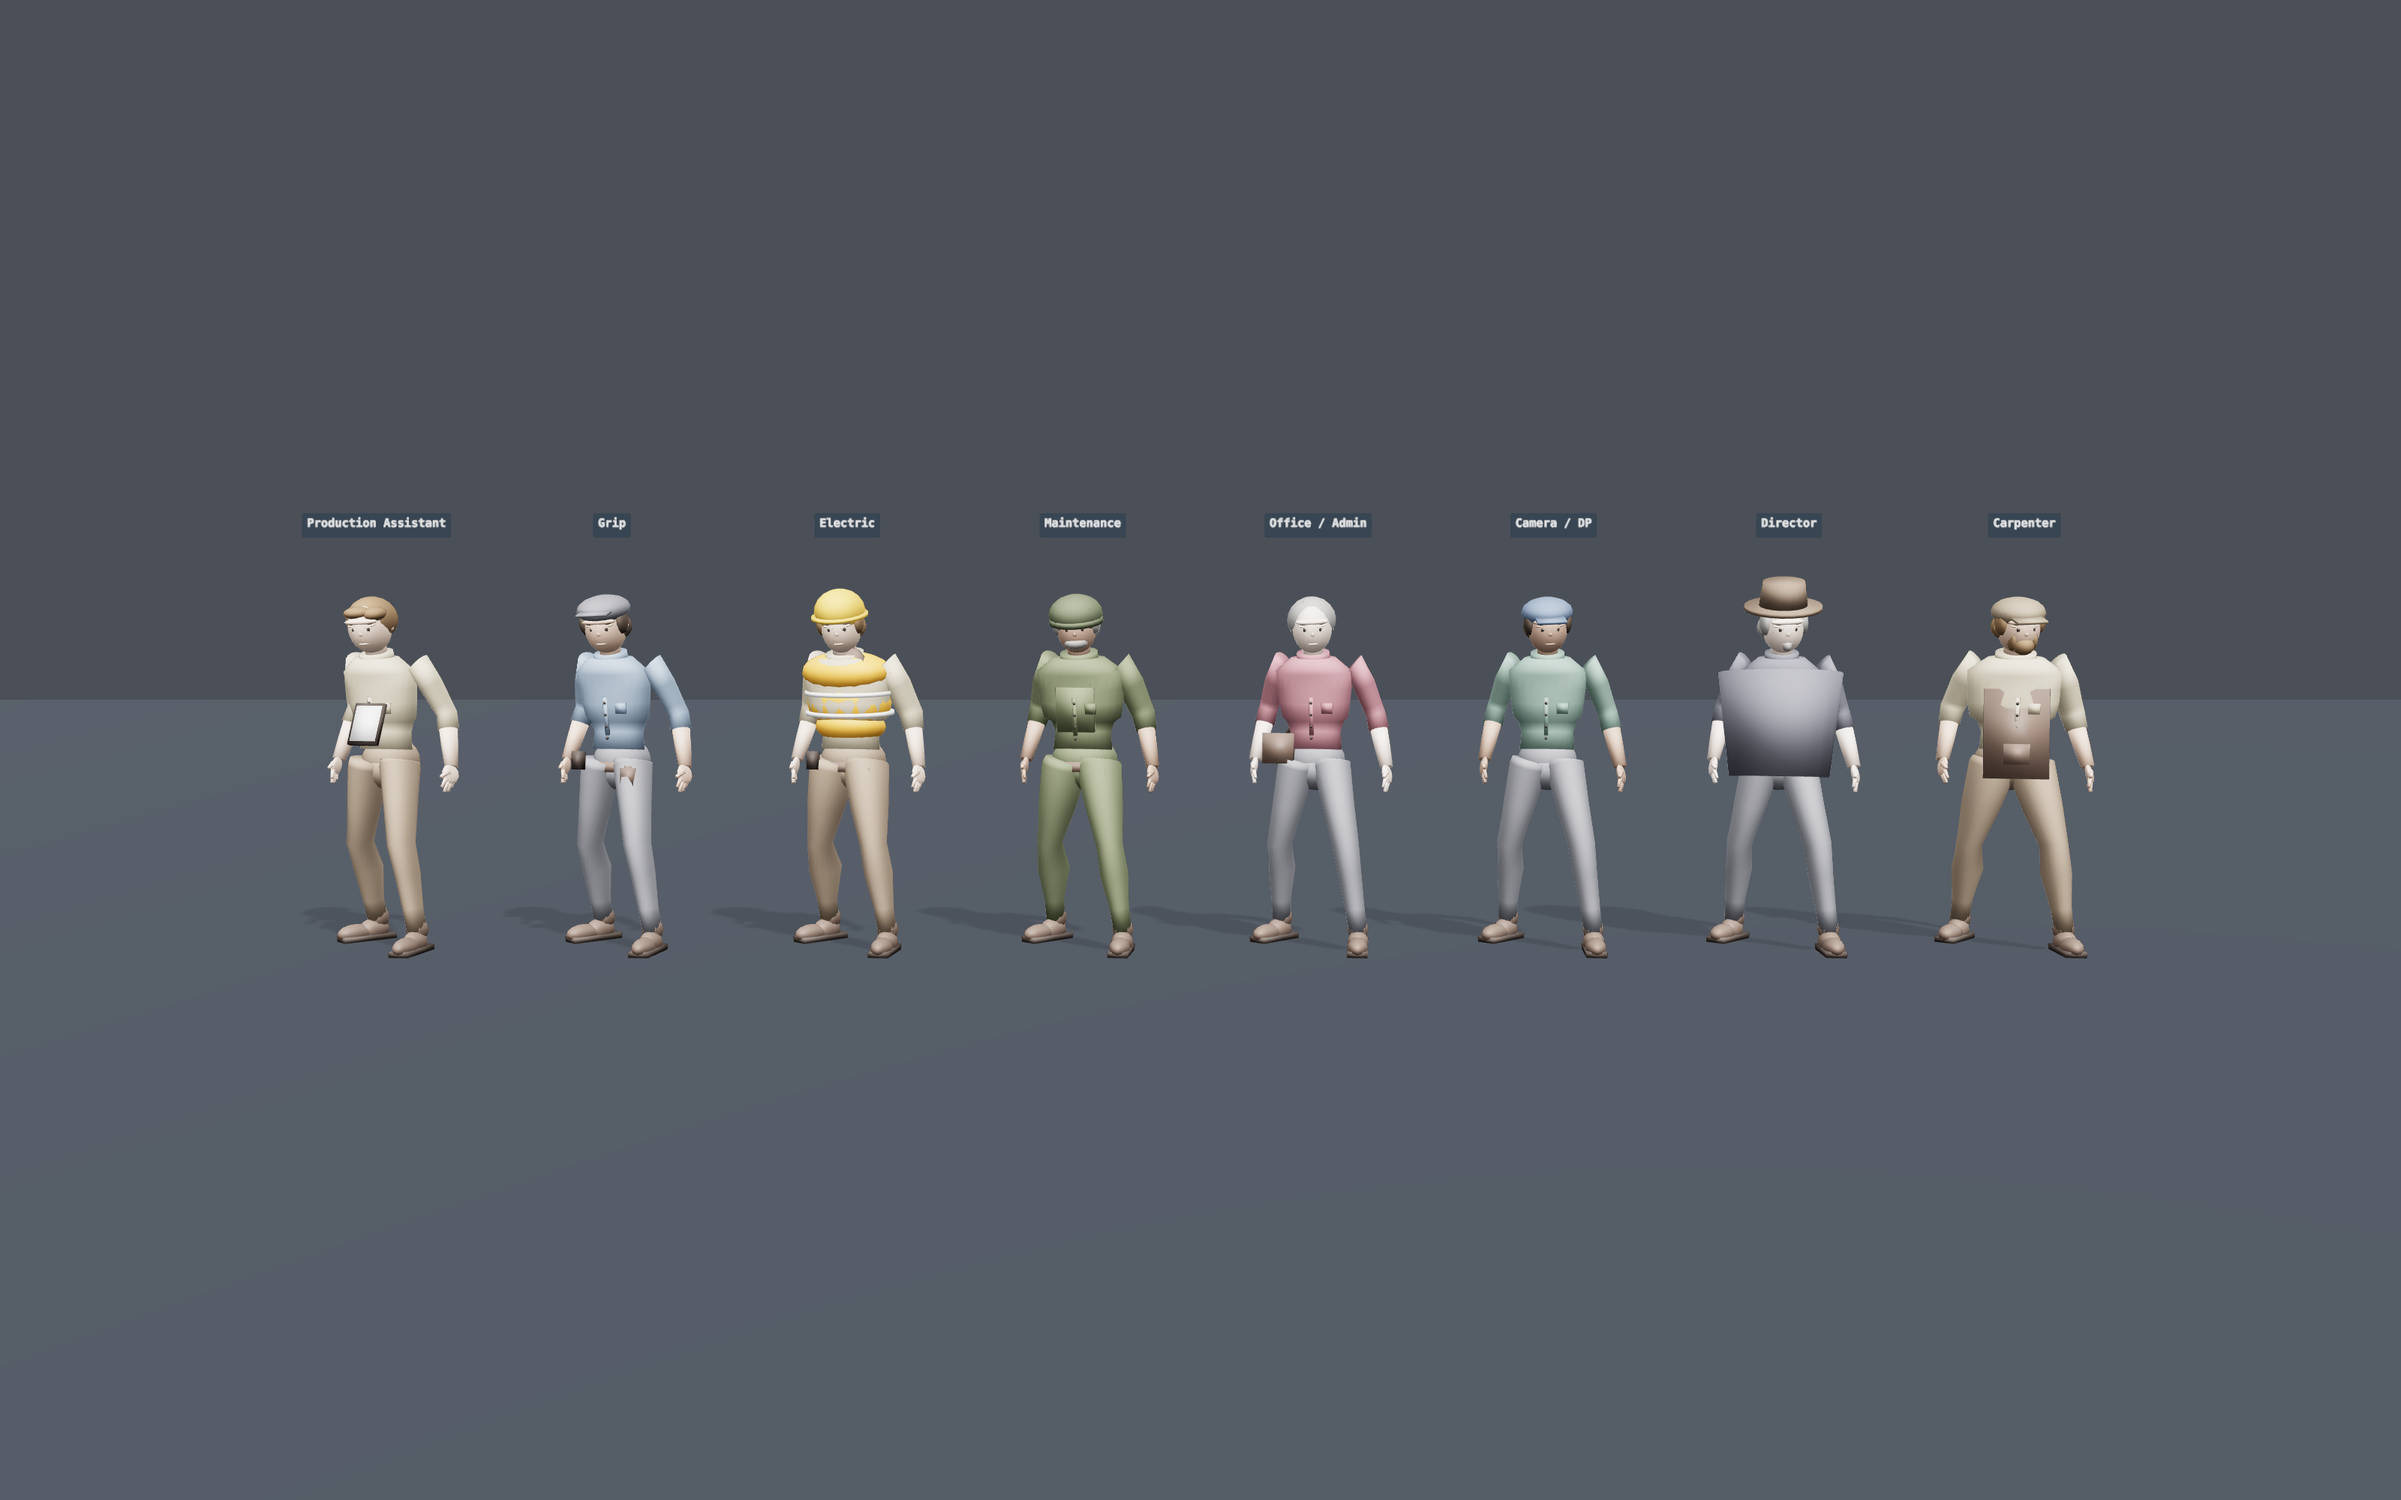
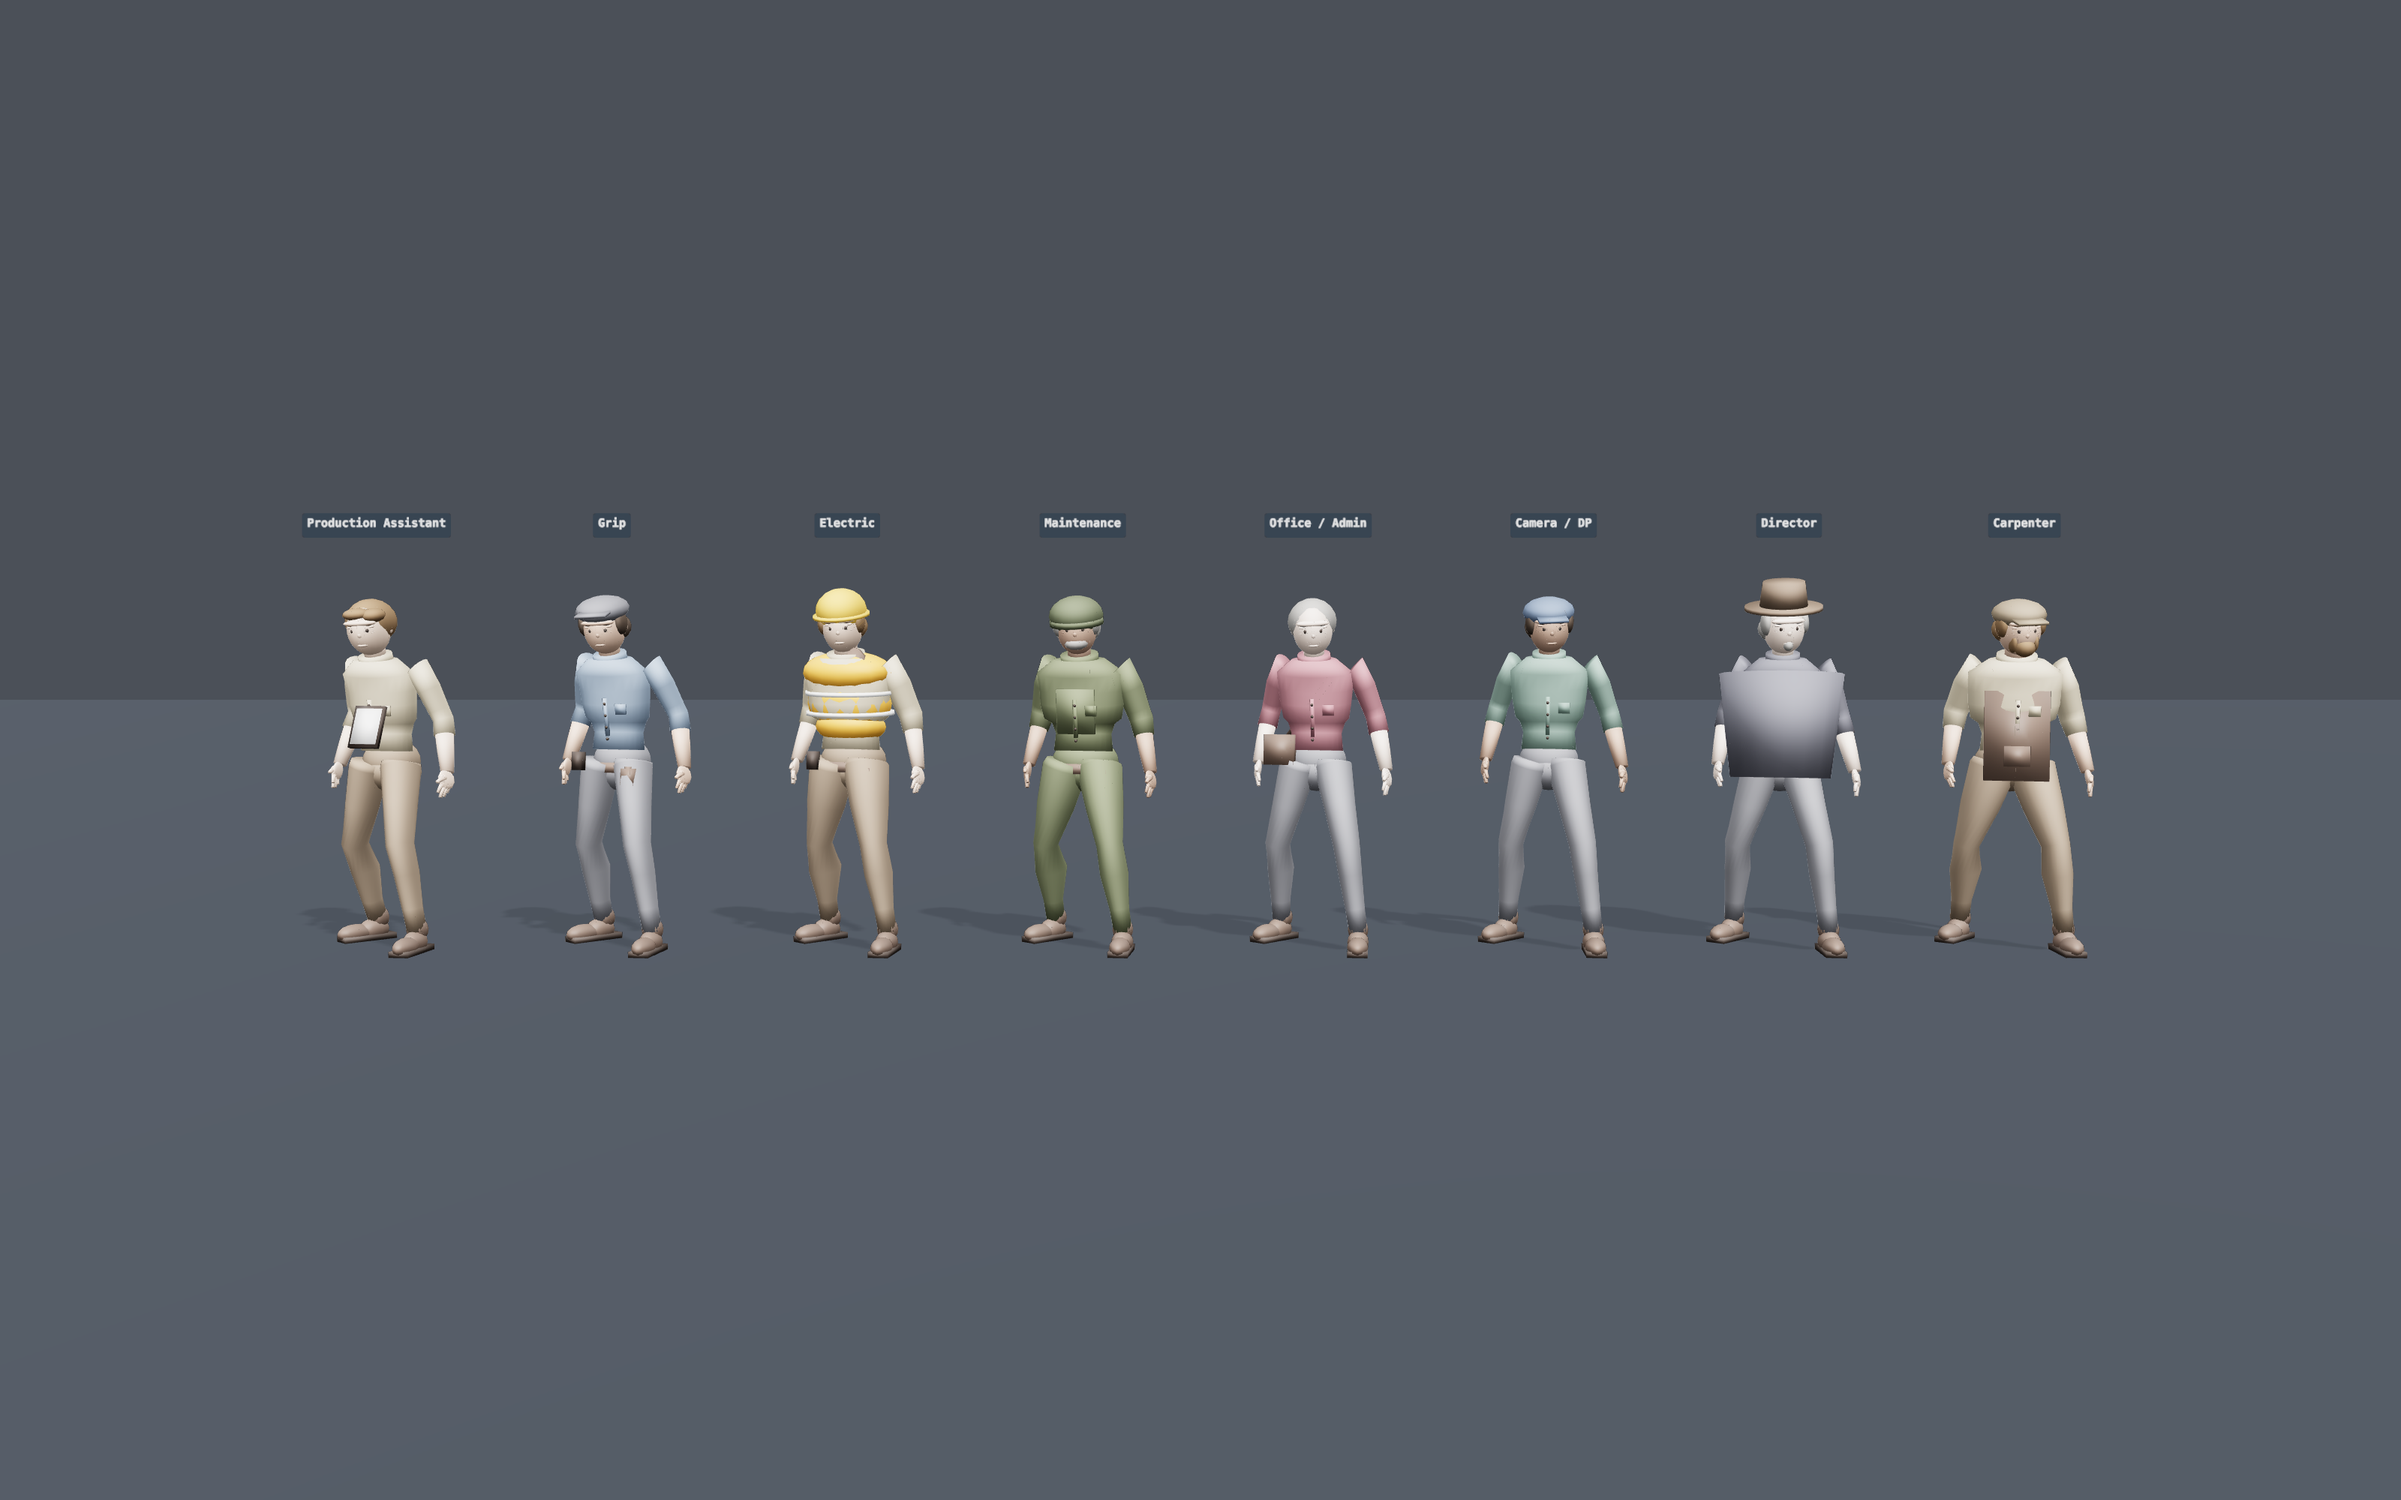
Asset Lab 05E review harness: lineups perform Idle_Loop live (cover the 6th required clip)
The animation-review spec lists 6 clips but the 26-camera list has 5 animation cameras + no Idle
camera; rather than add an unlisted button or leave Idle_Loop only as a frozen pose, the crew
lineups now animate Idle_Loop live (close-ups stay frozen for anatomy; LOD stays frozen for an
identical-pose comparison). Runtime/UI only; no character asset touched.

diff --git a/src/components/reviewHarness.tsx b/src/components/reviewHarness.tsx
@@ -177,8 +177,11 @@ export function ReviewArea({ view }: { view: string }): JSX.Element | null {
   const v = G_REVIEW[view]
   if (!v || v.kind === 'production') return null
   if (v.kind === 'lod') return <ReviewLOD />
-  const anim = v.kind === 'anim'
-  return <ReviewLineup clip={anim ? (v.clip ?? 'Idle_Loop') : 'Idle_Loop'} frozen={!anim} />
+  // Lineups animate Idle_Loop LIVE (so the sixth required clip, Idle_Loop, is shown performing —
+  // the 26-camera list has no separate Idle camera). Close-ups freeze the idle for clean anatomy
+  // inspection; animation views play their clip live.
+  if (v.kind === 'anim') return <ReviewLineup clip={v.clip ?? 'Idle_Loop'} frozen={false} />
+  return <ReviewLineup clip="Idle_Loop" frozen={v.kind === 'closeup'} />
 }
 
 // preload the LOD variants used by the comparison so switching to it doesn't stall
